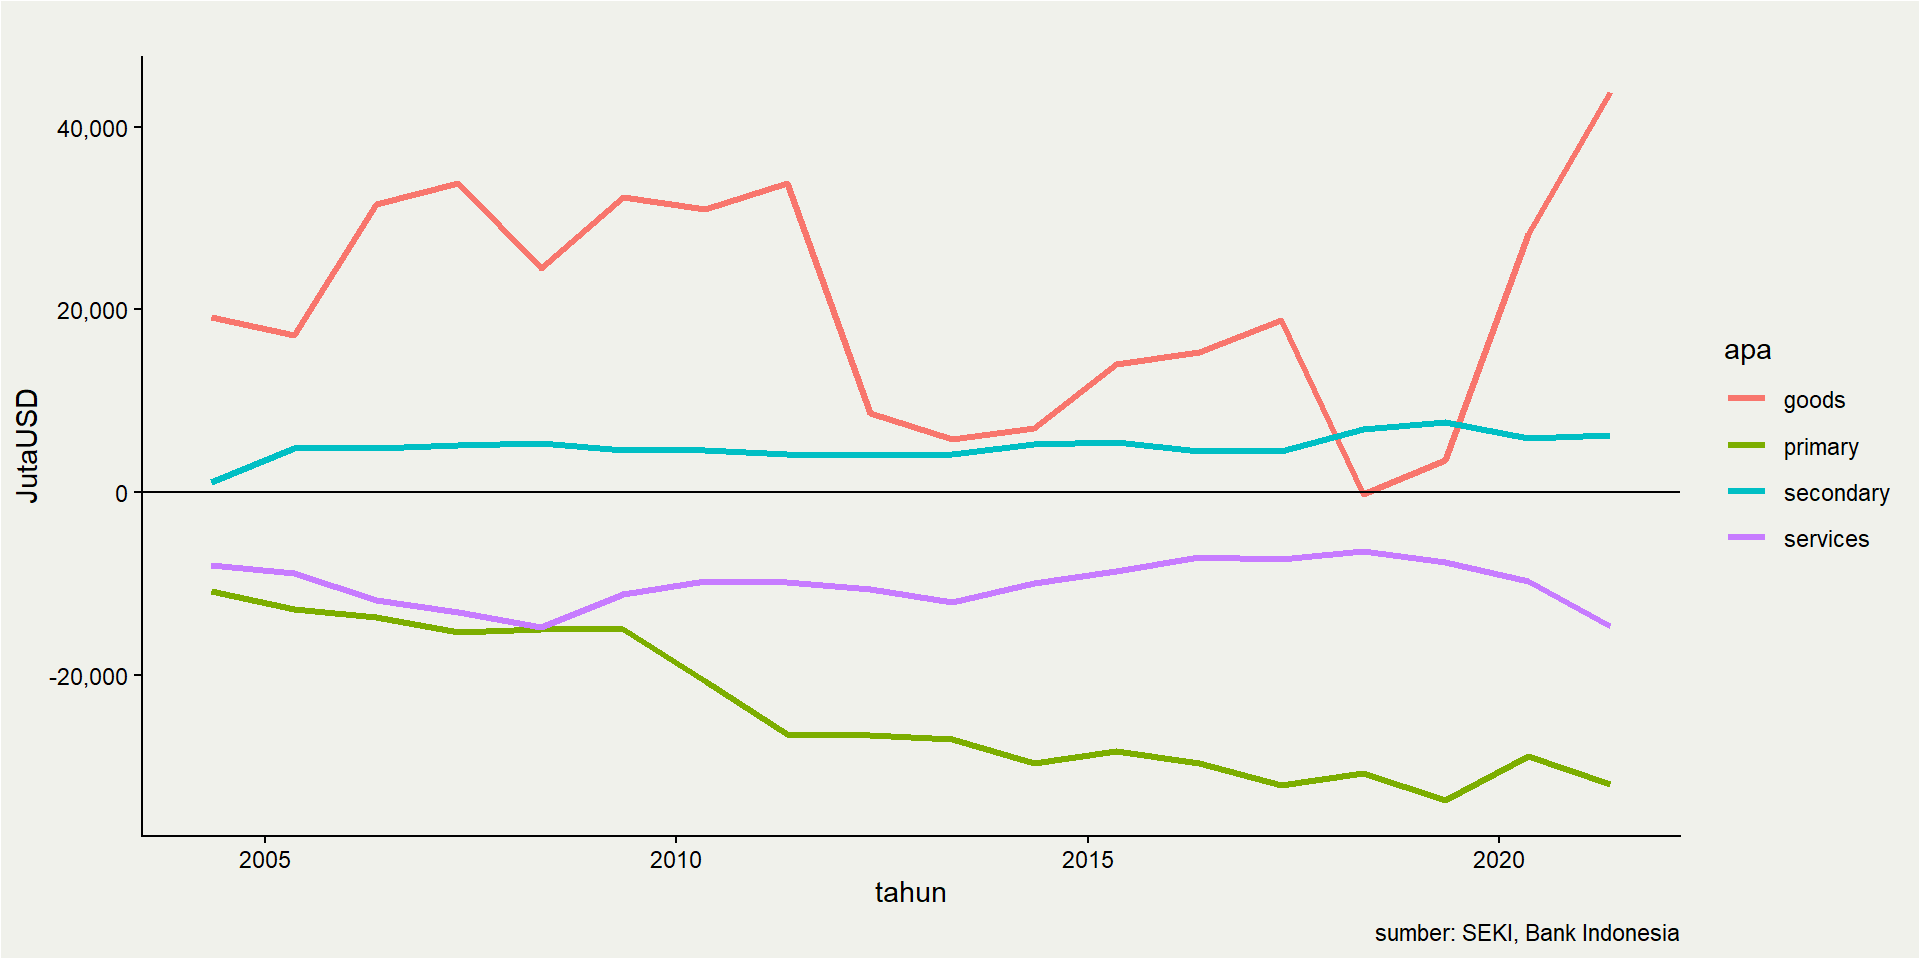
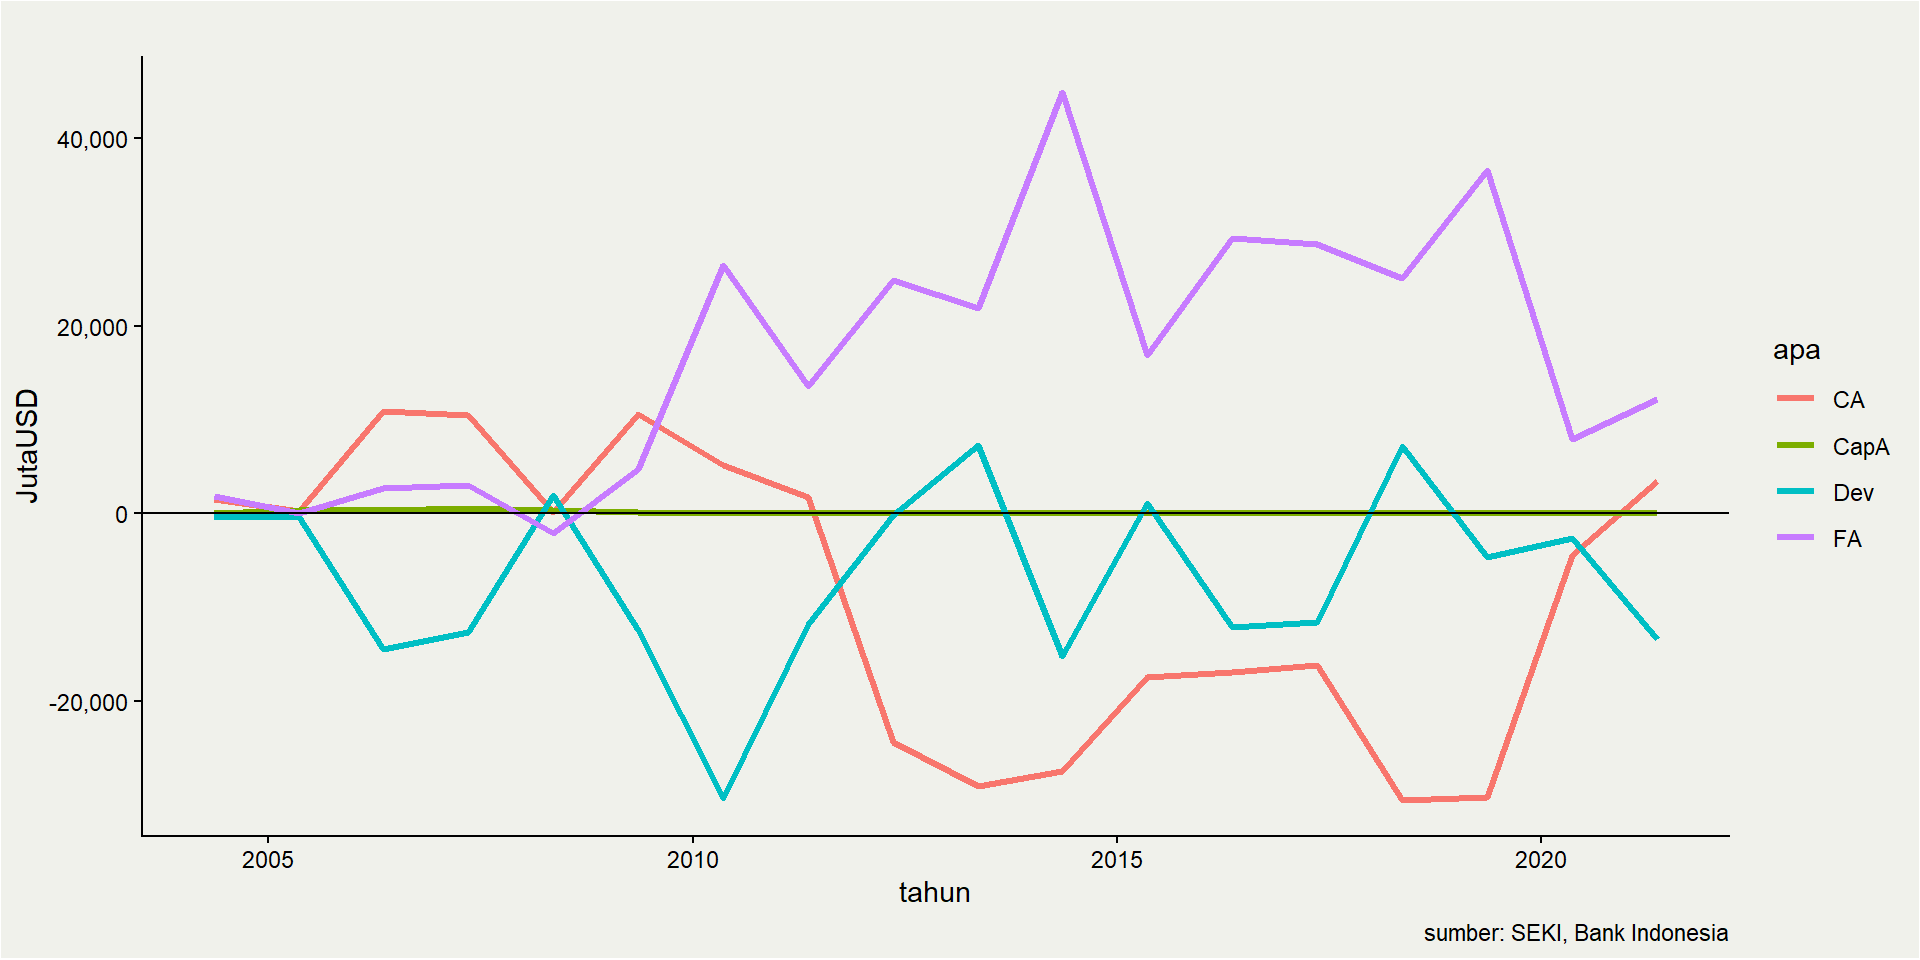
update

diff --git a/static/intecon/meeting10/index.html b/static/intecon/meeting10/index.html
@@ -10,7 +10,6 @@
   <meta name="generator" content="quarto-1.8.27">
 
   <meta name="author" content="I Made Krisna Gupta">
-  <meta name="dcterms.date" content="2022-09-12">
   <title>Balance of Payment &amp; National Income</title>
   <meta name="apple-mobile-web-app-capable" content="yes">
   <meta name="apple-mobile-web-app-status-bar-style" content="black-translucent">
@@ -135,7 +134,7 @@
 
 <section id="title-slide" class="quarto-title-block center">
   <h1 class="title">Balance of Payment &amp; National Income</h1>
-  <p class="subtitle">ECES905205 pertemuan 11</p>
+  <p class="subtitle">ECES905205 pertemuan 10</p>
 
 <div class="quarto-title-authors">
 <div class="quarto-title-author">
@@ -145,7 +144,7 @@ I Made Krisna Gupta
 </div>
 </div>
 
-  <p class="date">2022-09-12</p>
+  <p class="date">Invalid Date</p>
 </section>
 <section id="trade-process" class="slide level2">
 <h2>Trade process</h2>
@@ -159,7 +158,7 @@ I Made Krisna Gupta
 <li><p>National income-&gt;measure kebahagiaan penduduk secara umum.</p></li>
 </ul>
 </section>
-<section id="produk-nasional-bruto" class="slide level2">
+<section id="produk-nasional-bruto" class="slide level2 s">
 <h2>Produk Nasional Bruto</h2>
 <ul>
 <li><p>Gross National Product (GNP) atau Produk Nasional Bruto (PNB): total nilai produksi oleh penduduk suatu negara di manapun ia berada.</p>
@@ -179,19 +178,38 @@ Y_t=C_t+I_t+G_t+(X_t-M_t)
 <li><p>Gross Domestic Product (GDP) atau Produk Domestik Bruto (PDB): total nilai produksi oleh suatu negara di wilayahnya, siapapun yang mengerjakan.</p></li>
 <li><p>PDB = PNB - payments from foreign countries + payments to foreign countries.</p></li>
 <li><p>Gaji eksekutif Toyota Indonesia: masuk ke PDB Indonesia, bukan PDB Jepang, tapi ada di PNB Jepang dan bukan PNB Indonesia.</p></li>
-<li><p>Lebih gampang ngitung PDB daripada PNB, not differ significantly anyway.</p></li>
+<li><p>Lebih gampang ngitung PDB daripada PNB, not differ significantly anyway (for some econs).</p></li>
 </ul>
+</section>
+<section id="pdb-indonesia" class="slide level2">
+<h2>PDB Indonesia</h2>
+
+<img data-src="index_files/figure-revealjs/unnamed-chunk-1-1.png" width="960" class="r-stretch"></section>
+<section id="the-larger-the-better" class="slide level2">
+<h2>The larger the better?</h2>
+<div class="columns">
+<div class="column" style="width:50%;">
+<p><img data-src="kaltara.png"></p>
+</div><div class="column" style="width:50%;">
+<ul>
+<li><p>Kaltara memiliki PDB per kapita yang tinggi. Lebih tinggi daripada Sabah.</p></li>
+<li><p>Namun, gaya hidup masyarakatnya tidak se-mewah masyarakat Sabah.</p></li>
+<li><p>Jawabannya: Kaltara adalah net-eksportir dengan konsumsi domestik yang sangat rendah.</p></li>
+</ul>
+</div></div>
 </section>
 <section id="current-account" class="slide level2">
 <h2>Current account</h2>
 <p><span class="math display">\[
 CA = X - M
-\]</span> - Sejauh ini, model kita selalu menganalisis dengan CA=0.</p>
-<pre><code>- Ekspor sebanyak $P_C C$ diikuti impor sebanyak $P_FF$ sehingga $P_CC=P_FF$
-
-- Artinya $X=M \rightarrow CA=0$</code></pre>
+\]</span></p>
 <ul>
-<li>Pada kenyataannya, CA=0 jarang terjadi.</li>
+<li><p>Sejauh ini, model kita selalu menganalisis dengan CA=0.</p>
+<ul>
+<li><p>Ekspor sebanyak <span class="math inline">\(P_C C\)</span> diikuti impor sebanyak <span class="math inline">\(P_FF\)</span> sehingga <span class="math inline">\(P_CC=P_FF\)</span></p></li>
+<li><p>Artinya <span class="math inline">\(X=M \rightarrow CA=0\)</span></p></li>
+</ul></li>
+<li><p>Pada kenyataannya, CA=0 jarang terjadi.</p></li>
 </ul>
 </section>
 <section id="current-account-1" class="slide level2 m">
@@ -217,10 +235,10 @@ CA = X - M
 <li><p>Saving juga bisa terjadi di govt jika T&gt;G!</p></li>
 </ul>
 </section>
-<section id="indonesias-ca-iip" class="slide level2">
-<h2>Indonesia’s CA &amp; IIP</h2>
+<section id="indonesias-ca-nip" class="slide level2">
+<h2>Indonesia’s CA &amp; NIP</h2>
 
-<img data-src="index_files/figure-revealjs/unnamed-chunk-1-1.png" width="960" class="r-stretch"></section>
+<img data-src="index_files/figure-revealjs/unnamed-chunk-2-1.png" width="960" class="r-stretch"></section>
 <section id="balance-of-payment" class="slide level2">
 <h2>Balance of Payment</h2>
 <ul>
@@ -364,7 +382,7 @@ CA = X - M
 <section id="neraca-pembayaran-idn" class="slide level2">
 <h2>Neraca Pembayaran IDN</h2>
 
-<img data-src="index_files/figure-revealjs/unnamed-chunk-3-1.png" width="960" class="r-stretch"></section>
+<img data-src="index_files/figure-revealjs/unnamed-chunk-4-1.png" width="960" class="r-stretch"></section>
 <section id="on-ca-iip" class="slide level2">
 <h2>On CA &amp; IIP</h2>
 <ul>
@@ -426,7 +444,7 @@ CA = X - M
 <section id="cad-idn" class="slide level2">
 <h2>CAD IDN</h2>
 
-<img data-src="index_files/figure-revealjs/unnamed-chunk-4-1.png" width="960" class="r-stretch"></section>
+<img data-src="index_files/figure-revealjs/unnamed-chunk-5-1.png" width="960" class="r-stretch"></section>
 <section id="trade-dan-bop" class="slide level2 m">
 <h2>Trade dan BoP</h2>
 <ul>